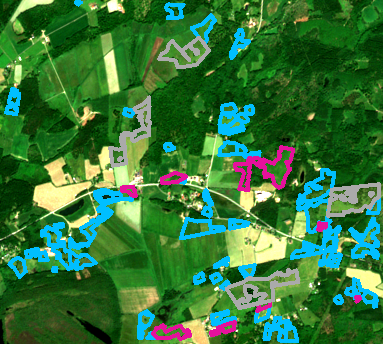
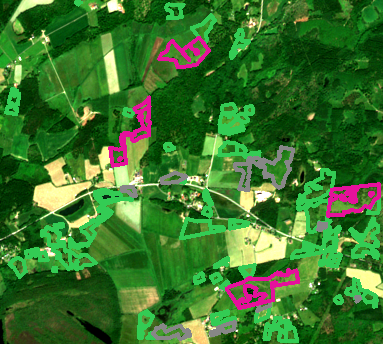
Update showcase dashboard with NMD charts, background toggles and color fixes
Add NMD cross-reference bar charts for fire analysis, before/after and
sjökort background toggle buttons for marine/fire panels, and improve
LPIS grazing overlay colors for better readability.

diff --git a/outputs/imint_showcase.html b/outputs/imint_showcase.html
@@ -1123,7 +1123,7 @@ svg.leaflet-image-layer.leaflet-interactive path {
         <div class="section-header">
             <h2>Brandanalys — 2018-07-24</h2>
         </div>
-        
+        <div class="summary-section"><div class="summary-card"><h4>Förändringsdetektering</h4><div class="value">22.8%</div><div class="detail">49 regioner</div></div><div class="summary-card"><h4>dNBR Hög svårighetsgrad</h4><div class="value">1.2 km²</div><div class="detail">8.9% av området</div></div><div class="summary-card"><h4>Prithvi (burn_scars)</h4><div class="value">64.8% burned</div><div class="detail">96677 px</div></div><div class="summary-card"><h4>NMD Marktäcke</h4><div class="value">82.4% Skog</div><div class="detail">6 klasser</div></div><div class="summary-card"><h4>Molnanalys (COT)</h4><div class="value">99.9% klart</div><div class="detail">COT medel: 0.0017</div></div></div>
         <div class="tab-intro">
             <p>
                 Analysområdet är beläget i Ljusdals kommun, Gävleborgs län, och
@@ -1245,6 +1245,10 @@ svg.leaflet-image-layer.leaflet-interactive path {
                     <h3>dNBR (Brandsvårighetsgrad)</h3>
                     <div class="header-controls">
                         
+                    <div class="bg-toggle" data-map-id="f-dnbr">
+                        <span class="bg-label">Visa:</span>
+                        <button class="bg-btn active" data-bg="rgb">Efter</button><button class="bg-btn" data-bg="baseline">Före</button>
+                    </div>
                         <div class="opacity-control">
                             <label for="opacity-f-dnbr">Opacitet</label>
                             <input type="range" id="opacity-f-dnbr" min="0" max="100"
@@ -1262,6 +1266,10 @@ svg.leaflet-image-layer.leaflet-interactive path {
                     <h3>Förändring (gradient)</h3>
                     <div class="header-controls">
                         
+                    <div class="bg-toggle" data-map-id="f-gradient">
+                        <span class="bg-label">Visa:</span>
+                        <button class="bg-btn active" data-bg="rgb">Efter</button><button class="bg-btn" data-bg="baseline">Före</button>
+                    </div>
                         <div class="opacity-control">
                             <label for="opacity-f-gradient">Opacitet</label>
                             <input type="range" id="opacity-f-gradient" min="0" max="100"
@@ -1293,6 +1301,28 @@ svg.leaflet-image-layer.leaflet-interactive path {
             </div>
         </div>
         
+        <div class="section-header">
+            <h2>Korsreferens mot NMD (Nationellt Marktäckedata)</h2>
+        </div>
+        <div class="charts-grid">
+            
+        <div class="chart-card">
+            <h3>Förändringsdetektering per markklass</h3>
+            <canvas id="chart-change"></canvas>
+        </div>
+        <div class="chart-card">
+            <h3>dNBR brandsvårighetsgrad per markklass</h3>
+            <canvas id="chart-dnbr"></canvas>
+        </div>
+        <div class="chart-card">
+            <h3>Brandsegmentering per markklass (Prithvi)</h3>
+            <canvas id="chart-prithvi"></canvas>
+        </div>
+        <div class="chart-card">
+            <h3>Marktäcke — detaljerade klasser (Nivå 2)</h3>
+            <canvas id="chart-l2"></canvas>
+        </div>
+        </div>
         <div class="tab-description">
             <h3>Sentinel-2 RGB — Satellitbilden</h3>
             <p>
@@ -1354,7 +1384,7 @@ svg.leaflet-image-layer.leaflet-interactive path {
         <div class="section-header">
             <h2>Marin analys — 2025-07-10</h2>
         </div>
-        
+        <div class="summary-section"><div class="summary-card"><h4>Båtdetektering</h4><div class="value">130 båtar</div><div class="detail">5 datum (4 skippade)</div></div><div class="summary-card"><h4>Bästa datum</h4><div class="value">50 båtar</div><div class="detail">2025-07-17</div></div><div class="summary-card"><h4>NMD Marktäcke</h4><div class="value">64.2% Vatten</div><div class="detail">6 klasser</div></div><div class="summary-card"><h4>Molnanalys (COT)</h4><div class="value">99.7% klart</div><div class="detail">COT medel: 0.0019</div></div><div class="summary-card"><h4>Analysområde</h4><div class="value">18.6 km²</div><div class="detail">Bohuslän kustzon</div></div></div>
         <div class="tab-intro">
             <p>
                 Analysområdet visar skärgården utanför Hunnebostrand — ett område
@@ -1373,6 +1403,11 @@ svg.leaflet-image-layer.leaflet-interactive path {
                     <h3>Sentinel-2 RGB</h3>
                     <div class="header-controls">
                         
+                    <div class="bg-toggle" data-map-id="m-rgb">
+                        <span class="bg-label">Visa:</span>
+                        <button class="bg-btn active" data-bg="rgb">RGB</button>
+                        <button class="bg-btn" data-bg="sjokort">Sjökort</button>
+                    </div>
                         <div class="opacity-control">
                             <label for="opacity-m-rgb">Opacitet</label>
                             <input type="range" id="opacity-m-rgb" min="0" max="100"
@@ -1390,6 +1425,11 @@ svg.leaflet-image-layer.leaflet-interactive path {
                     <h3>Båtdetektering (YOLO)</h3>
                     <div class="header-controls">
                         
+                    <div class="bg-toggle" data-map-id="m-vessels">
+                        <span class="bg-label">Visa:</span>
+                        <button class="bg-btn active" data-bg="rgb">RGB</button>
+                        <button class="bg-btn" data-bg="sjokort">Sjökort</button>
+                    </div>
                         <div class="opacity-control">
                             <label for="opacity-m-vessels">Opacitet</label>
                             <input type="range" id="opacity-m-vessels" min="0" max="100"
@@ -1407,6 +1447,11 @@ svg.leaflet-image-layer.leaflet-interactive path {
                     <h3>Båtaktivitet (heatmap)</h3>
                     <div class="header-controls">
                         
+                    <div class="bg-toggle" data-map-id="m-vessel-heatmap">
+                        <span class="bg-label">Visa:</span>
+                        <button class="bg-btn active" data-bg="rgb">RGB</button>
+                        <button class="bg-btn" data-bg="sjokort">Sjökort</button>
+                    </div>
                         <div class="opacity-control">
                             <label for="opacity-m-vessel-heatmap">Opacitet</label>
                             <input type="range" id="opacity-m-vessel-heatmap" min="0" max="100"
@@ -1424,6 +1469,11 @@ svg.leaflet-image-layer.leaflet-interactive path {
                     <h3>NMD Marktäcke</h3>
                     <div class="header-controls">
                         
+                    <div class="bg-toggle" data-map-id="m-nmd">
+                        <span class="bg-label">Visa:</span>
+                        <button class="bg-btn active" data-bg="rgb">RGB</button>
+                        <button class="bg-btn" data-bg="sjokort">Sjökort</button>
+                    </div>
                         <div class="opacity-control">
                             <label for="opacity-m-nmd">Opacitet</label>
                             <input type="range" id="opacity-m-nmd" min="0" max="100"
@@ -1441,6 +1491,11 @@ svg.leaflet-image-layer.leaflet-interactive path {
                     <h3>NDVI (Vegetationsindex)</h3>
                     <div class="header-controls">
                         
+                    <div class="bg-toggle" data-map-id="m-ndvi">
+                        <span class="bg-label">Visa:</span>
+                        <button class="bg-btn active" data-bg="rgb">RGB</button>
+                        <button class="bg-btn" data-bg="sjokort">Sjökort</button>
+                    </div>
                         <div class="opacity-control">
                             <label for="opacity-m-ndvi">Opacitet</label>
                             <input type="range" id="opacity-m-ndvi" min="0" max="100"
@@ -1458,6 +1513,11 @@ svg.leaflet-image-layer.leaflet-interactive path {
                     <h3>NDWI (Vattenindex)</h3>
                     <div class="header-controls">
                         
+                    <div class="bg-toggle" data-map-id="m-ndwi">
+                        <span class="bg-label">Visa:</span>
+                        <button class="bg-btn active" data-bg="rgb">RGB</button>
+                        <button class="bg-btn" data-bg="sjokort">Sjökort</button>
+                    </div>
                         <div class="opacity-control">
                             <label for="opacity-m-ndwi">Opacitet</label>
                             <input type="range" id="opacity-m-ndwi" min="0" max="100"
@@ -1475,6 +1535,11 @@ svg.leaflet-image-layer.leaflet-interactive path {
                     <h3>Molnoptisk tjocklek (COT)</h3>
                     <div class="header-controls">
                         
+                    <div class="bg-toggle" data-map-id="m-cot">
+                        <span class="bg-label">Visa:</span>
+                        <button class="bg-btn active" data-bg="rgb">RGB</button>
+                        <button class="bg-btn" data-bg="sjokort">Sjökort</button>
+                    </div>
                         <div class="opacity-control">
                             <label for="opacity-m-cot">Opacitet</label>
                             <input type="range" id="opacity-m-cot" min="0" max="100"
@@ -1607,7 +1672,7 @@ svg.leaflet-image-layer.leaflet-interactive path {
                     </div>
                 </div>
                 <div id="g-lpis" class="map-container"></div>
-                <div class="legend-strip"><span class="legend-item"><span class="legend-swatch" style="background:#00BFFF"></span>Aktiv betesmark</span><span class="legend-item"><span class="legend-swatch" style="background:#E6119D"></span>Ingen aktivitet</span><span class="legend-item"><span class="legend-swatch" style="background:#aaaaaa"></span>Ej analyserad</span></div>
+                <div class="legend-strip"><span class="legend-item"><span class="legend-swatch" style="background:#33cc55"></span>Aktiv betesmark</span><span class="legend-item"><span class="legend-swatch" style="background:#888888"></span>Ingen aktivitet</span><span class="legend-item"><span class="legend-swatch" style="background:#E6119D"></span>Ej analyserad</span></div>
             </div>
             <div class="map-cell" data-panel-id="g-ndvi">
                 <div class="map-cell-header">
@@ -2258,9 +2323,9 @@ svg.leaflet-image-layer.leaflet-interactive path {
                         const gjLayer = L.geoJSON(geojsonData, {
                             style: function(feature) {
                                 const cls = feature.properties && feature.properties.predicted_class;
-                                let color = '#aaaaaa';
-                                if (cls === 1) color = '#00BFFF';
-                                else if (cls === 0) color = '#E6119D';
+                                let color = '#E6119D';
+                                if (cls === 1) color = '#33cc55';
+                                else if (cls === 0) color = '#888888';
                                 return { color: color, weight: 2, fillOpacity: 0.15, opacity: 1 };
                             },
                             onEachFeature: function(feature, layer) {
@@ -2293,9 +2358,9 @@ svg.leaflet-image-layer.leaflet-interactive path {
                         const gjLayer = L.geoJSON(geojsonData, {
                             style: function(feature) {
                                 const cls = feature.properties && feature.properties.predicted_class;
-                                let color = '#aaaaaa';
-                                if (cls === 1) color = '#00BFFF';
-                                else if (cls === 0) color = '#E6119D';
+                                let color = '#E6119D';
+                                if (cls === 1) color = '#33cc55';
+                                else if (cls === 0) color = '#888888';
                                 return { color: color, weight: 2, fillOpacity: 0.15, opacity: 1 };
                             },
                             onEachFeature: function(feature, layer) {
@@ -2398,7 +2463,8 @@ svg.leaflet-image-layer.leaflet-interactive path {
     "f-cot": "showcase/fire/cot_clean.png",
     "f-dnbr": "showcase/fire/dnbr_clean.png",
     "f-gradient": "showcase/fire/change_gradient.png",
-    "f-prithvi": "showcase/fire/prithvi_seg_clean.png"
+    "f-prithvi": "showcase/fire/prithvi_seg_clean.png",
+    "f-baseline": "showcase/fire/baseline_rgb.png"
 };
         const MARINE_VIEWERS = [{"id": "m-rgb", "key": "rgb", "vector": false, "legend": []}, {"id": "m-vessels", "key": "vessels", "vector": true, "legend": [{"color": "#00E5FF", "label": "Detekterad båt / anomali"}]}, {"id": "m-vessel-heatmap", "key": "vessel_heatmap", "vector": false, "legend": [{"color": "#FFFFB2", "label": "Låg"}, {"color": "#FD8D3C", "label": "Medel"}, {"color": "#BD0026", "label": "Hög"}]}, {"id": "m-nmd", "key": "nmd", "vector": false, "legend": [{"color": "#006400", "label": "Tallskog"}, {"color": "#228B22", "label": "Granskog"}, {"color": "#32CD32", "label": "Lövskog"}, {"color": "#3CB371", "label": "Blandskog"}, {"color": "#90EE90", "label": "Temp. ej skog"}, {"color": "#2E4F2E", "label": "Sumpsk. tall"}, {"color": "#3A5F3A", "label": "Sumpsk. gran"}, {"color": "#4A7F4A", "label": "Sumpsk. löv"}, {"color": "#5A8F5A", "label": "Sumpsk. bland"}, {"color": "#7AAF7A", "label": "Sumpsk. temp"}, {"color": "#8B5A2B", "label": "Öpp. våtmark"}, {"color": "#FFD700", "label": "Åkermark"}, {"color": "#C8AD7F", "label": "Öpp. mark bar"}, {"color": "#D2B48C", "label": "Öpp. mark veg."}, {"color": "#FF0000", "label": "Byggnader"}, {"color": "#FF4500", "label": "Infrastruktur"}, {"color": "#FF6347", "label": "Vägar"}, {"color": "#0000FF", "label": "Sjöar"}, {"color": "#1E90FF", "label": "Hav"}]}, {"id": "m-ndvi", "key": "ndvi", "vector": false, "legend": [{"color": "#a50026", "label": "-1.0"}, {"color": "#f46d43", "label": "-0.5"}, {"color": "#fee08b", "label": "0.0"}, {"color": "#a6d96a", "label": "0.5"}, {"color": "#006837", "label": "1.0"}]}, {"id": "m-ndwi", "key": "ndwi", "vector": false, "legend": [{"color": "#67001f", "label": "-1.0"}, {"color": "#d6604d", "label": "-0.5"}, {"color": "#f7f7f7", "label": "0.0"}, {"color": "#4393c3", "label": "0.5"}, {"color": "#053061", "label": "1.0 Vatten"}]}, {"id": "m-cot", "key": "cot", "vector": false, "legend": [{"color": "#FFFFB2", "label": "0 (Klart)"}, {"color": "#FD8D3C", "label": "0.015 (Tunt moln)"}, {"color": "#BD0026", "label": "0.05 (Tjockt moln)"}]}];
         const MARINE_IMAGES = {
@@ -2408,14 +2474,15 @@ svg.leaflet-image-layer.leaflet-interactive path {
     "m-nmd": "showcase/marine/nmd_overlay.png",
     "m-ndvi": "showcase/marine/ndvi_clean.png",
     "m-ndwi": "showcase/marine/ndwi_clean.png",
-    "m-cot": "showcase/marine/cot_clean.png"
+    "m-cot": "showcase/marine/cot_clean.png",
+    "m-sjokort": "showcase/marine/sjokort.png"
 };
 
-        initMaps(FIRE_VIEWERS, FIRE_IMAGES, 573, 324, false);
+        initMaps(FIRE_VIEWERS, FIRE_IMAGES, 559, 267, false);
         const VESSEL_GEOJSON = {"type": "FeatureCollection", "features": [{"type": "Feature", "geometry": {"type": "Polygon", "coordinates": [[[126.0, 149.0], [134.0, 149.0], [134.0, 162.0], [126.0, 162.0], [126.0, 149.0]]]}, "properties": {"pixel_count": 92, "score": 0.656626284122467, "label": "vessel"}}, {"type": "Feature", "geometry": {"type": "Polygon", "coordinates": [[[205.0, 449.0], [219.0, 449.0], [219.0, 460.0], [205.0, 460.0], [205.0, 449.0]]]}, "properties": {"pixel_count": 153, "score": 0.6429849863052368, "label": "vessel"}}, {"type": "Feature", "geometry": {"type": "Polygon", "coordinates": [[[280.0, 504.0], [284.0, 504.0], [284.0, 509.0], [280.0, 509.0], [280.0, 504.0]]]}, "properties": {"pixel_count": 18, "score": 0.6404160261154175, "label": "vessel"}}, {"type": "Feature", "geometry": {"type": "Polygon", "coordinates": [[[155.0, 94.0], [161.0, 94.0], [161.0, 104.0], [155.0, 104.0], [155.0, 94.0]]]}, "properties": {"pixel_count": 66, "score": 0.6343415975570679, "label": "vessel"}}, {"type": "Feature", "geometry": {"type": "Polygon", "coordinates": [[[168.0, 332.0], [174.0, 332.0], [174.0, 347.0], [168.0, 347.0], [168.0, 332.0]]]}, "properties": {"pixel_count": 100, "score": 0.6270867586135864, "label": "vessel"}}, {"type": "Feature", "geometry": {"type": "Polygon", "coordinates": [[[256.0, 478.0], [260.0, 478.0], [260.0, 482.0], [256.0, 482.0], [256.0, 478.0]]]}, "properties": {"pixel_count": 19, "score": 0.5892868638038635, "label": "vessel"}}, {"type": "Feature", "geometry": {"type": "Polygon", "coordinates": [[[251.0, 216.0], [256.0, 216.0], [256.0, 227.0], [251.0, 227.0], [251.0, 216.0]]]}, "properties": {"pixel_count": 61, "score": 0.5766821503639221, "label": "vessel"}}, {"type": "Feature", "geometry": {"type": "Polygon", "coordinates": [[[76.0, 560.0], [81.0, 560.0], [81.0, 565.0], [76.0, 565.0], [76.0, 560.0]]]}, "properties": {"pixel_count": 27, "score": 0.5660017132759094, "label": "vessel"}}, {"type": "Feature", "geometry": {"type": "Polygon", "coordinates": [[[97.0, 420.0], [101.0, 420.0], [101.0, 424.0], [97.0, 424.0], [97.0, 420.0]]]}, "properties": {"pixel_count": 15, "score": 0.5423253178596497, "label": "vessel"}}, {"type": "Feature", "geometry": {"type": "Polygon", "coordinates": [[[194.0, 453.0], [198.0, 453.0], [198.0, 457.0], [194.0, 457.0], [194.0, 453.0]]]}, "properties": {"pixel_count": 14, "score": 0.5185319185256958, "label": "vessel"}}, {"type": "Feature", "geometry": {"type": "Polygon", "coordinates": [[[252.0, 435.0], [256.0, 435.0], [256.0, 439.0], [252.0, 439.0], [252.0, 435.0]]]}, "properties": {"pixel_count": 15, "score": 0.4947650134563446, "label": "vessel"}}, {"type": "Feature", "geometry": {"type": "Polygon", "coordinates": [[[2.0, 299.0], [6.0, 299.0], [6.0, 304.0], [2.0, 304.0], [2.0, 299.0]]]}, "properties": {"pixel_count": 24, "score": 0.4906851351261139, "label": "vessel"}}, {"type": "Feature", "geometry": {"type": "Polygon", "coordinates": [[[202.0, 480.0], [205.0, 480.0], [205.0, 485.0], [202.0, 485.0], [202.0, 480.0]]]}, "properties": {"pixel_count": 15, "score": 0.486534059047699, "label": "vessel"}}, {"type": "Feature", "geometry": {"type": "Polygon", "coordinates": [[[190.0, 145.0], [198.0, 145.0], [198.0, 152.0], [190.0, 152.0], [190.0, 145.0]]]}, "properties": {"pixel_count": 54, "score": 0.4765901565551758, "label": "vessel"}}, {"type": "Feature", "geometry": {"type": "Polygon", "coordinates": [[[220.0, 487.0], [225.0, 487.0], [225.0, 491.0], [220.0, 491.0], [220.0, 487.0]]]}, "properties": {"pixel_count": 18, "score": 0.46683061122894287, "label": "vessel"}}, {"type": "Feature", "geometry": {"type": "Polygon", "coordinates": [[[205.0, 486.0], [209.0, 486.0], [209.0, 491.0], [205.0, 491.0], [205.0, 486.0]]]}, "properties": {"pixel_count": 20, "score": 0.41923436522483826, "label": "vessel"}}, {"type": "Feature", "geometry": {"type": "Polygon", "coordinates": [[[240.0, 211.0], [248.0, 211.0], [248.0, 217.0], [240.0, 217.0], [240.0, 211.0]]]}, "properties": {"pixel_count": 48, "score": 0.41710129380226135, "label": "vessel"}}, {"type": "Feature", "geometry": {"type": "Polygon", "coordinates": [[[266.0, 454.0], [269.0, 454.0], [269.0, 458.0], [266.0, 458.0], [266.0, 454.0]]]}, "properties": {"pixel_count": 16, "score": 0.38814252614974976, "label": "vessel"}}, {"type": "Feature", "geometry": {"type": "Polygon", "coordinates": [[[236.0, 181.0], [239.0, 181.0], [239.0, 186.0], [236.0, 186.0], [236.0, 181.0]]]}, "properties": {"pixel_count": 15, "score": 0.3862171173095703, "label": "vessel"}}, {"type": "Feature", "geometry": {"type": "Polygon", "coordinates": [[[262.0, 442.0], [266.0, 442.0], [266.0, 448.0], [262.0, 448.0], [262.0, 442.0]]]}, "properties": {"pixel_count": 25, "score": 0.3811282217502594, "label": "vessel"}}, {"type": "Feature", "geometry": {"type": "Polygon", "coordinates": [[[303.0, 501.0], [306.0, 501.0], [306.0, 504.0], [303.0, 504.0], [303.0, 501.0]]]}, "properties": {"pixel_count": 13, "score": 0.3780282437801361, "label": "vessel"}}, {"type": "Feature", "geometry": {"type": "Polygon", "coordinates": [[[269.0, 468.0], [273.0, 468.0], [273.0, 476.0], [269.0, 476.0], [269.0, 468.0]]]}, "properties": {"pixel_count": 33, "score": 0.3748244345188141, "label": "vessel"}}, {"type": "Feature", "geometry": {"type": "Polygon", "coordinates": [[[134.0, 130.0], [139.0, 130.0], [139.0, 136.0], [134.0, 136.0], [134.0, 130.0]]]}, "properties": {"pixel_count": 25, "score": 0.35460394620895386, "label": "vessel"}}, {"type": "Feature", "geometry": {"type": "Polygon", "coordinates": [[[157.0, 298.0], [161.0, 298.0], [161.0, 302.0], [157.0, 302.0], [157.0, 298.0]]]}, "properties": {"pixel_count": 19, "score": 0.3543793857097626, "label": "vessel"}}, {"type": "Feature", "geometry": {"type": "Polygon", "coordinates": [[[149.0, 84.0], [153.0, 84.0], [153.0, 89.0], [149.0, 89.0], [149.0, 84.0]]]}, "properties": {"pixel_count": 21, "score": 0.3361256420612335, "label": "vessel"}}, {"type": "Feature", "geometry": {"type": "Polygon", "coordinates": [[[173.0, 481.0], [177.0, 481.0], [177.0, 485.0], [173.0, 485.0], [173.0, 481.0]]]}, "properties": {"pixel_count": 13, "score": 0.3198675215244293, "label": "vessel"}}, {"type": "Feature", "geometry": {"type": "Polygon", "coordinates": [[[274.0, 529.0], [277.0, 529.0], [277.0, 533.0], [274.0, 533.0], [274.0, 529.0]]]}, "properties": {"pixel_count": 14, "score": 0.3013831079006195, "label": "vessel"}}, {"type": "Feature", "geometry": {"type": "Polygon", "coordinates": [[[163.0, 313.0], [169.0, 313.0], [169.0, 332.0], [163.0, 332.0], [163.0, 313.0]]]}, "properties": {"pixel_count": 107, "score": 0.2983683943748474, "label": "vessel"}}]};
-        initMaps(MARINE_VIEWERS, MARINE_IMAGES, 573, 324, false, VESSEL_GEOJSON);
+        initMaps(MARINE_VIEWERS, MARINE_IMAGES, 573, 324, true, VESSEL_GEOJSON);
 
-        const GRAZING_VIEWERS = [{"id": "g-rgb", "key": "rgb", "vector": false, "legend": []}, {"id": "g-nmd", "key": "nmd", "vector": false, "legend": [{"color": "#FFD700", "label": "Åkermark"}, {"color": "#D2B48C", "label": "Öpp. mark veg."}, {"color": "#50B43C", "label": "Ädellövskog"}, {"color": "#32CD32", "label": "Triviallöv"}, {"color": "#228B22", "label": "Granskog"}, {"color": "#46A064", "label": "Blandskog"}, {"color": "#006400", "label": "Tallskog"}, {"color": "#4A7F4A", "label": "Skog våtmark"}, {"color": "#8B5A2B", "label": "Öpp. våtmark"}, {"color": "#FF0000", "label": "Bebyggelse"}, {"color": "#0000FF", "label": "Vatten"}]}, {"id": "g-lpis", "key": "lpis", "vector": true, "legend": [{"color": "#00BFFF", "label": "Aktiv betesmark"}, {"color": "#E6119D", "label": "Ingen aktivitet"}, {"color": "#aaaaaa", "label": "Ej analyserad"}]}, {"id": "g-ndvi", "key": "ndvi", "vector": false, "legend": [{"color": "#a50026", "label": "-1.0"}, {"color": "#f46d43", "label": "-0.5"}, {"color": "#fee08b", "label": "0.0"}, {"color": "#a6d96a", "label": "0.5"}, {"color": "#006837", "label": "1.0"}]}, {"id": "g-evi", "key": "evi", "vector": false, "legend": [{"color": "#a50026", "label": "-0.5"}, {"color": "#fee08b", "label": "0.0"}, {"color": "#a6d96a", "label": "0.5"}, {"color": "#006837", "label": "1.0"}]}, {"id": "g-ndwi", "key": "ndwi", "vector": false, "legend": [{"color": "#67001f", "label": "-1.0"}, {"color": "#d6604d", "label": "-0.5"}, {"color": "#f7f7f7", "label": "0.0"}, {"color": "#4393c3", "label": "0.5"}, {"color": "#053061", "label": "1.0 Vatten"}]}, {"id": "g-cot", "key": "cot", "vector": false, "legend": [{"color": "#FFFFB2", "label": "0 (Klart)"}, {"color": "#FD8D3C", "label": "0.015 (Tunt moln)"}, {"color": "#BD0026", "label": "0.05 (Tjockt moln)"}]}];
+        const GRAZING_VIEWERS = [{"id": "g-rgb", "key": "rgb", "vector": false, "legend": []}, {"id": "g-nmd", "key": "nmd", "vector": false, "legend": [{"color": "#FFD700", "label": "Åkermark"}, {"color": "#D2B48C", "label": "Öpp. mark veg."}, {"color": "#50B43C", "label": "Ädellövskog"}, {"color": "#32CD32", "label": "Triviallöv"}, {"color": "#228B22", "label": "Granskog"}, {"color": "#46A064", "label": "Blandskog"}, {"color": "#006400", "label": "Tallskog"}, {"color": "#4A7F4A", "label": "Skog våtmark"}, {"color": "#8B5A2B", "label": "Öpp. våtmark"}, {"color": "#FF0000", "label": "Bebyggelse"}, {"color": "#0000FF", "label": "Vatten"}]}, {"id": "g-lpis", "key": "lpis", "vector": true, "legend": [{"color": "#33cc55", "label": "Aktiv betesmark"}, {"color": "#888888", "label": "Ingen aktivitet"}, {"color": "#E6119D", "label": "Ej analyserad"}]}, {"id": "g-ndvi", "key": "ndvi", "vector": false, "legend": [{"color": "#a50026", "label": "-1.0"}, {"color": "#f46d43", "label": "-0.5"}, {"color": "#fee08b", "label": "0.0"}, {"color": "#a6d96a", "label": "0.5"}, {"color": "#006837", "label": "1.0"}]}, {"id": "g-evi", "key": "evi", "vector": false, "legend": [{"color": "#a50026", "label": "-0.5"}, {"color": "#fee08b", "label": "0.0"}, {"color": "#a6d96a", "label": "0.5"}, {"color": "#006837", "label": "1.0"}]}, {"id": "g-ndwi", "key": "ndwi", "vector": false, "legend": [{"color": "#67001f", "label": "-1.0"}, {"color": "#d6604d", "label": "-0.5"}, {"color": "#f7f7f7", "label": "0.0"}, {"color": "#4393c3", "label": "0.5"}, {"color": "#053061", "label": "1.0 Vatten"}]}, {"id": "g-cot", "key": "cot", "vector": false, "legend": [{"color": "#FFFFB2", "label": "0 (Klart)"}, {"color": "#FD8D3C", "label": "0.015 (Tunt moln)"}, {"color": "#BD0026", "label": "0.05 (Tjockt moln)"}]}];
         const GRAZING_IMAGES = {
     "g-rgb": "showcase/grazing/rgb.png",
     "g-nmd": "showcase/grazing/nmd_overlay.png",
@@ -2429,7 +2496,7 @@ svg.leaflet-image-layer.leaflet-interactive path {
         initMaps(GRAZING_VIEWERS, GRAZING_IMAGES, 344, 383, false, LPIS_GEOJSON);
 
         // ── Chart.js (Fire tab) ──────────────────────────────────────────
-        const CHART_DATA = {};
+        const CHART_DATA = {"change": {"labels": ["Tallskog", "Granskog", "Lövskog", "Blandskog", "Temporärt ej skog", "Sumpskog tall", "Sumpskog gran", "Sumpskog löv", "Sumpskog bland", "Sumpskog temp", "Öppen våtmark", "Åkermark", "Öppen mark, bar", "Öppen mark, veg.", "Byggnader", "Infrastruktur", "Vägar", "Sjöar"], "fractions": [29.1, 21.3, 28.0, 34.2, 50.9, 24.6, 6.0, 40.0, 22.5, 22.5, 32.9, 94.8, 44.9, 32.5, 38.5, 20.0, 28.1, 55.9], "dnbr": [0.1672, 0.0744, 0.0684, 0.0683, 0.4429, 0.1294, -0.0583, 0.1456, 0.053, 0.1031, 0.1076, 0.1521, 0.5906, 0.5143, 0.1342, 0.183, 0.0861, -0.2608], "colors": ["rgba(0,100,0,0.85)", "rgba(34,139,34,0.85)", "rgba(50,205,50,0.85)", "rgba(60,179,113,0.85)", "rgba(144,238,144,0.85)", "rgba(46,79,46,0.85)", "rgba(58,95,58,0.85)", "rgba(74,127,74,0.85)", "rgba(90,143,90,0.85)", "rgba(122,175,122,0.85)", "rgba(139,90,43,0.85)", "rgba(255,215,0,0.85)", "rgba(200,173,127,0.85)", "rgba(210,180,140,0.85)", "rgba(255,0,0,0.85)", "rgba(255,69,0,0.85)", "rgba(255,99,71,0.85)", "rgba(0,0,255,0.85)"], "borders": ["#006400", "#228B22", "#32CD32", "#3CB371", "#90EE90", "#2E4F2E", "#3A5F3A", "#4A7F4A", "#5A8F5A", "#7AAF7A", "#8B5A2B", "#FFD700", "#C8AD7F", "#D2B48C", "#FF0000", "#FF4500", "#FF6347", "#0000FF"]}, "prithvi": {"labels": ["Tallskog", "Granskog", "Lövskog", "Blandskog", "Temporärt ej skog", "Sumpskog tall", "Sumpskog gran", "Sumpskog löv", "Sumpskog bland", "Sumpskog temp", "Öppen våtmark", "Åkermark", "Öppen mark, bar", "Öppen mark, veg.", "Byggnader", "Infrastruktur", "Vägar", "Sjöar"], "classes": [{"label": "Ej bränt", "data": [39.4, 41.7, 39.8, 35.4, 10.2, 40.3, 100.0, 28.7, 39.3, 35.1, 40.6, 100.0, 10.9, 14.4, 61.5, 30.0, 35.6, 95.8], "color": "rgba(34,139,34,0.85)", "border": "#228B22"}, {"label": "Bränt", "data": [60.6, 58.3, 60.2, 64.6, 89.8, 59.7, 0, 71.3, 60.7, 64.9, 59.4, 0, 89.1, 85.6, 38.5, 70.0, 64.4, 4.2], "color": "rgba(255,69,0,0.85)", "border": "#FF4500"}]}, "l2": {"labels": ["Tallskog", "Temporärt ej skog", "Sjöar", "Lövskog", "Blandskog", "Öppen våtmark", "Sumpskog tall", "Öppen mark, veg.", "Vägar", "Granskog", "Sumpskog bland", "Sumpskog temp", "Öppen mark, bar", "Sumpskog löv"], "fractions": [37.2, 26.1, 7.5, 6.8, 5.3, 5.3, 3.5, 2.2, 2.2, 1.9, 1.1, 0.4, 0.3, 0.1], "colors": ["rgba(0,100,0,0.85)", "rgba(144,238,144,0.85)", "rgba(0,0,255,0.85)", "rgba(50,205,50,0.85)", "rgba(60,179,113,0.85)", "rgba(139,90,43,0.85)", "rgba(46,79,46,0.85)", "rgba(210,180,140,0.85)", "rgba(255,99,71,0.85)", "rgba(34,139,34,0.85)", "rgba(90,143,90,0.85)", "rgba(122,175,122,0.85)", "rgba(200,173,127,0.85)", "rgba(74,127,74,0.85)"]}};
 
         Chart.defaults.color = 'rgba(207,248,228,0.6)';
         Chart.defaults.borderColor = 'rgba(207,248,228,0.1)';
